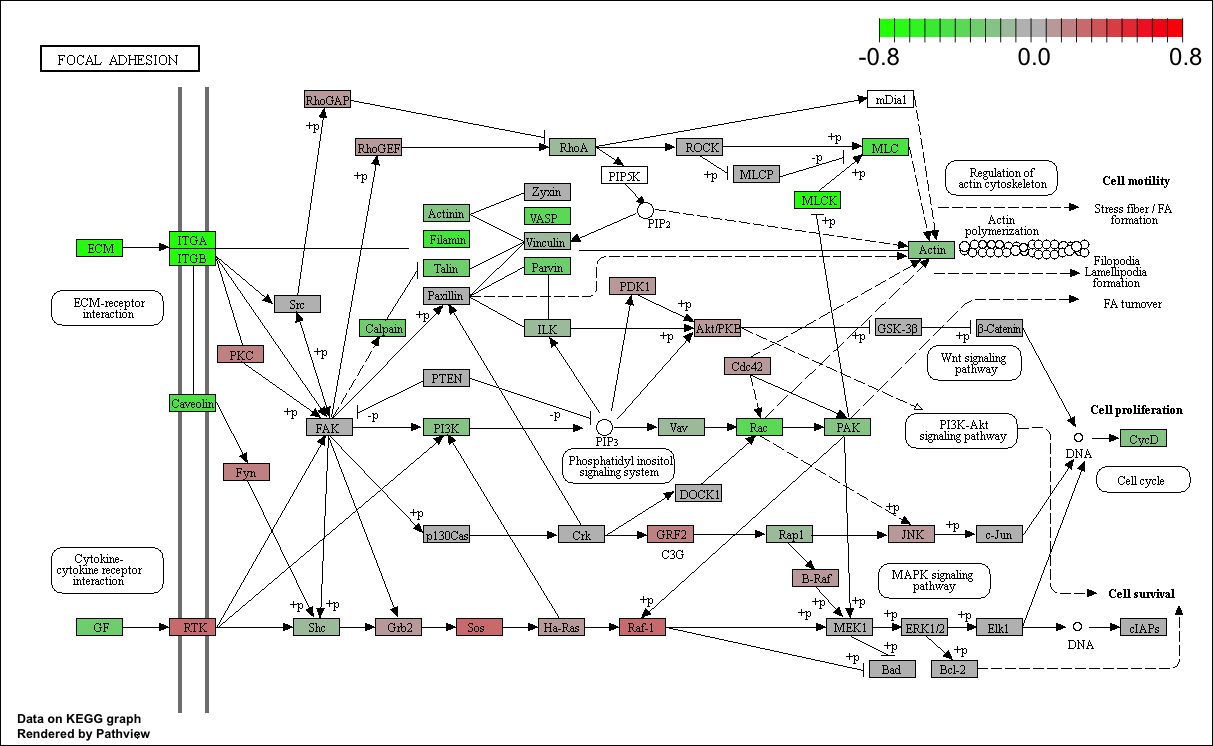
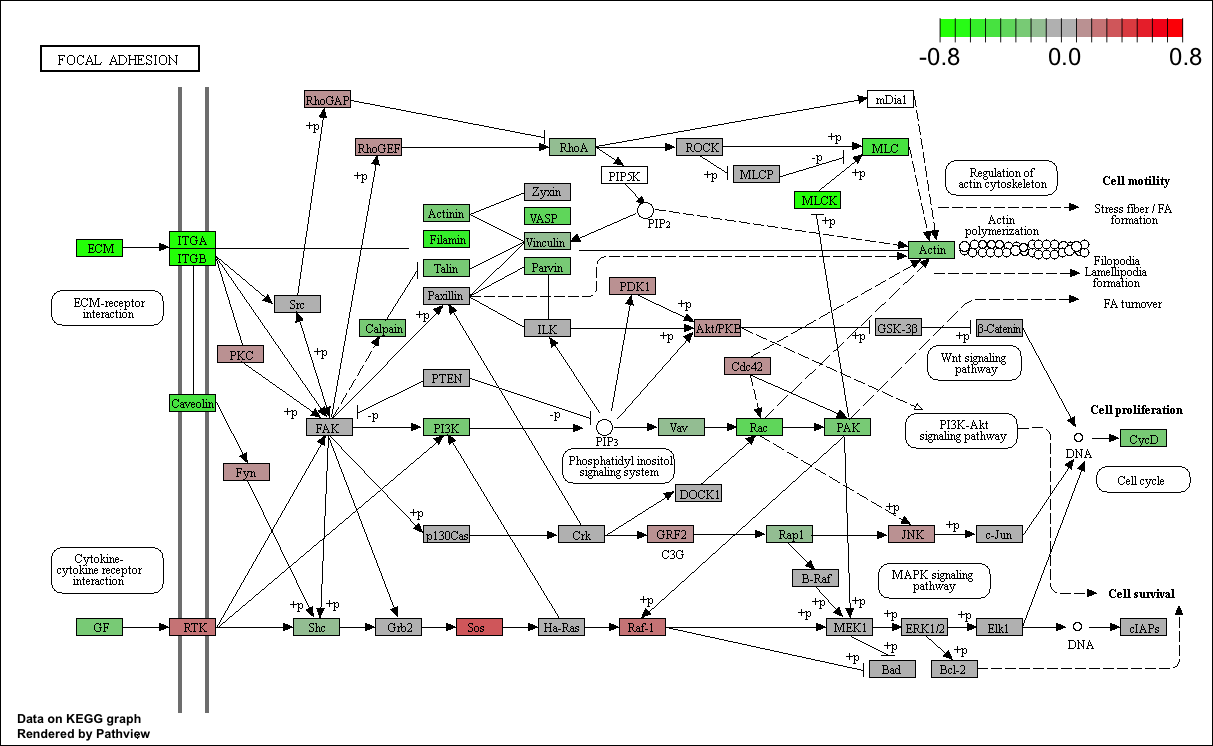
change logFC range in pathview

Changed region(s): [[0.7016, 0.0, 0.9456, 0.0925]]

diff --git a/docs/3_GSEA.html b/docs/3_GSEA.html
@@ -497,10 +497,10 @@ This reproducible <a href="http://rmarkdown.rstudio.com">R Markdown</a> analysis
 <div class="panel panel-default">
 <div class="panel-heading">
 <p class="panel-title">
-<a data-toggle="collapse" data-parent="#workflowr-checks" href="#strongRepositoryversionstrongahrefhttpsgithubcomyangdongau20190717LardelliRNASeqLarvaetree13abd741c1bf0850a70cd6efb8e68fd50cae8f4etargetblank13abd74a"> <span class="glyphicon glyphicon-ok text-success" aria-hidden="true"></span> <strong>Repository version:</strong> <a href="https://github.com/yangdongau/20190717_Lardelli_RNASeq_Larvae/tree/13abd741c1bf0850a70cd6efb8e68fd50cae8f4e" target="_blank">13abd74</a> </a>
+<a data-toggle="collapse" data-parent="#workflowr-checks" href="#strongRepositoryversionstrongahrefhttpsgithubcomyangdongau20190717LardelliRNASeqLarvaetree9a8eda49293a2f406dc5e25e0b490472d413426atargetblank9a8eda4a"> <span class="glyphicon glyphicon-ok text-success" aria-hidden="true"></span> <strong>Repository version:</strong> <a href="https://github.com/yangdongau/20190717_Lardelli_RNASeq_Larvae/tree/9a8eda49293a2f406dc5e25e0b490472d413426a" target="_blank">9a8eda4</a> </a>
 </p>
 </div>
[2 lines of base64/hex data omitted]
 <div class="panel-body">
 <p>
 Great! You are using Git for version control. Tracking code development and connecting the code version to the results is critical for reproducibility. The version displayed above was the version of the Git repository at the time these results were generated. <br><br> Note that you need to be careful to ensure that all relevant files for the analysis have been committed to Git prior to generating the results (you can use <code>wflow_publish</code> or <code>wflow_git_commit</code>). workflowr only checks the R Markdown file, but you know if there are other scripts or data files that it depends on. Below is the status of the Git repository when the results were generated:
@@ -562,6 +562,40 @@ Message
 </tr>
 </thead>
 <tbody>
+<tr>
+<td>
+Rmd
+</td>
+<td>
+<a href="https://github.com/yangdongau/20190717_Lardelli_RNASeq_Larvae/blob/9a8eda49293a2f406dc5e25e0b490472d413426a/analysis/3_GSEA.Rmd" target="_blank">9a8eda4</a>
+</td>
+<td>
+yangdongau
+</td>
+<td>
+2020-03-17
+</td>
+<td>
+rebuild workflow
+</td>
+</tr>
+<tr>
+<td>
+html
+</td>
+<td>
+<a href="https://rawcdn.githack.com/yangdongau/20190717_Lardelli_RNASeq_Larvae/9a8eda49293a2f406dc5e25e0b490472d413426a/docs/3_GSEA.html" target="_blank">9a8eda4</a>
+</td>
+<td>
+yangdongau
+</td>
+<td>
+2020-03-17
+</td>
+<td>
+rebuild workflow
+</td>
+</tr>
 <tr>
 <td>
 Rmd
@@ -1665,8 +1699,8 @@ keggPaths &lt;- list.files(keggDir, pattern = &quot;xml&quot;) %&gt;%
   species = &quot;Danio rerio&quot;,
   kegg.dir = keggDir,
   gene.idtype = &quot;ENSEMBL&quot;,
-  limit = list(gene = 0.8, cpd = 0.5),
-  bins = list(gene = 20, cpd = 20)
+  limit = list(gene = 0.8, cpd = 0.8),
+  bins = list(gene = 16, cpd = 16)
 )</code></pre>
 <pre class="r"><code>keggPng &lt;- list.files(pattern = &quot;dre.+pathview.png&quot;, full.names = TRUE)
 file.rename(
